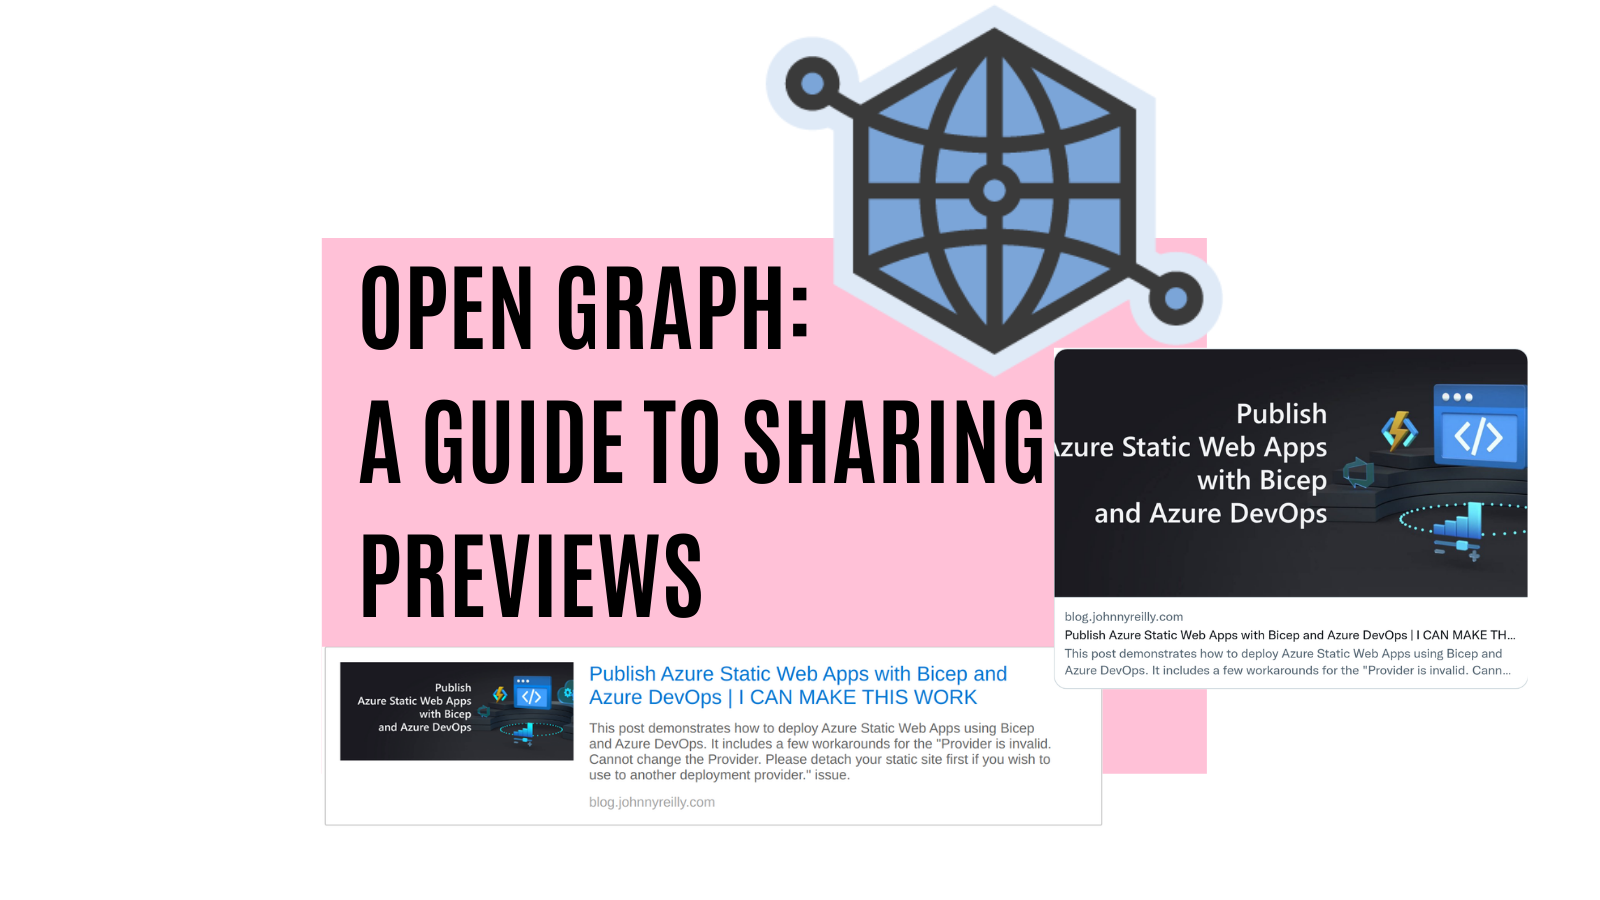
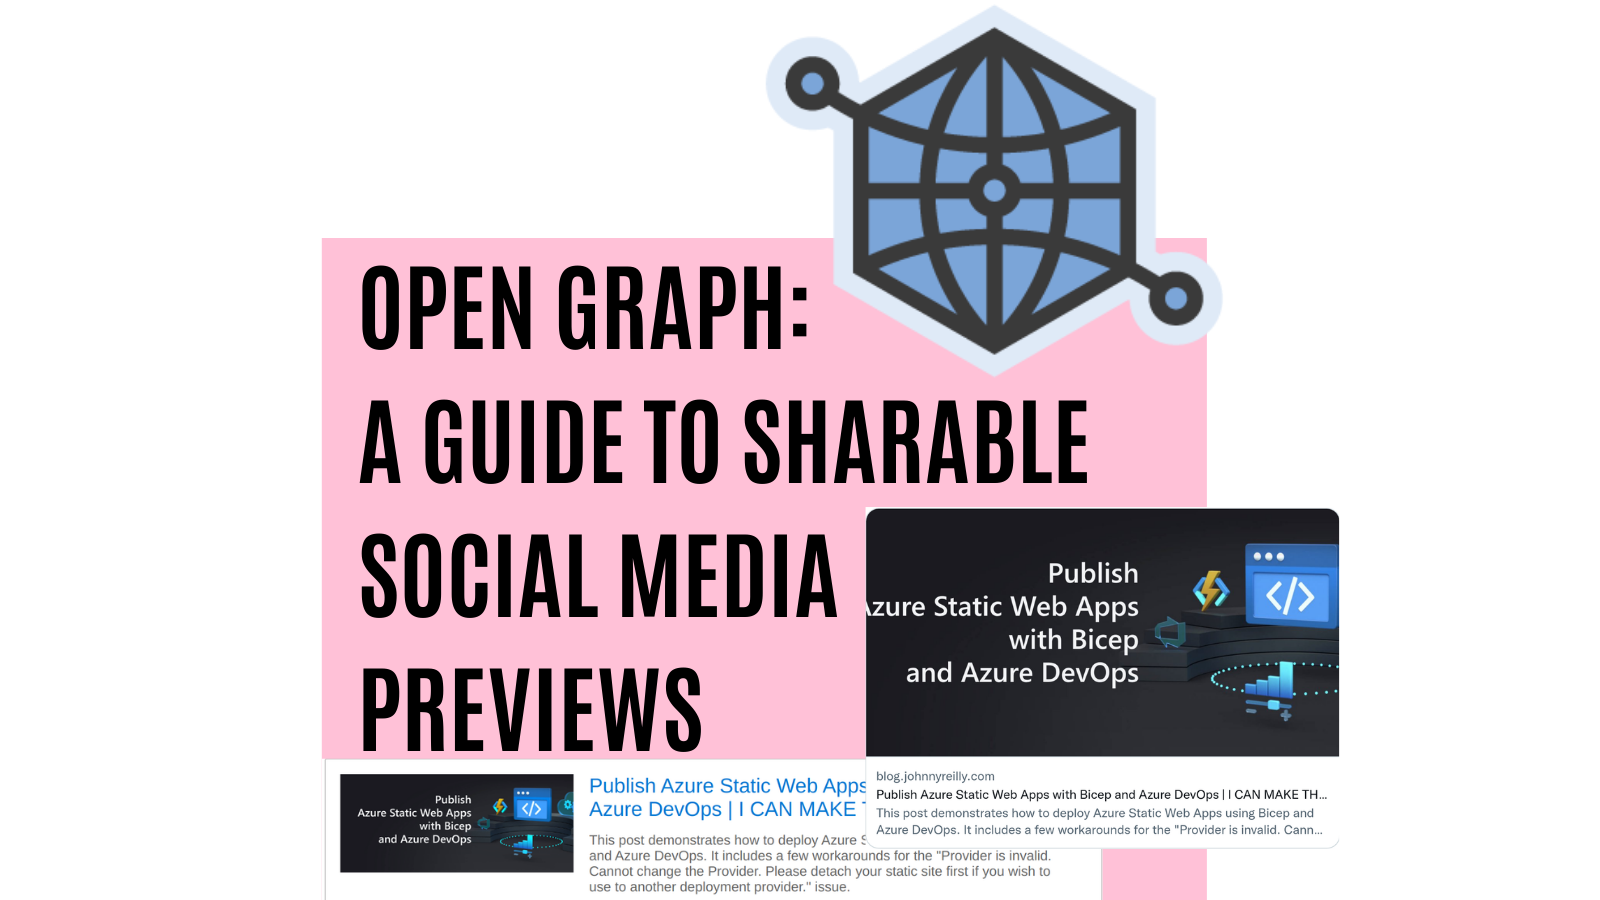
tweaks

Changed region(s): [[0.1875, 0.3733, 0.9688, 1.0]]

diff --git a/blog-website/blog/2021-11-07-open-graph-sharing-previews-guide.md b/blog-website/blog/2021-11-07-open-graph-sharing-previews-guide.md
@@ -8,7 +8,7 @@ hide_table_of_contents: false
 
 The Open Graph protocol has become the standard mechanism for sharing rich content on the web. This post looks at what implementing Open Graph tags for sharable previews (often called social media previews) looks like, the tools you can use and also an examines the different platform rendering issue.
 
-![title image reading "NSwag generated C# client: Open API property name clashes and decimal types rather than double" with a C# logo and Open API logos](../static/blog/2021-11-07-open-graph-sharing-previews-guide/title-image.png)
+![title image reading "Open Graph: a guide to sharable social media previews" with the open graph logo and screenshots of twitter shared cards](../static/blog/2021-11-07-open-graph-sharing-previews-guide/title-image.png)
 
 ## Open Graph protocol and sharing
 
@@ -156,4 +156,3 @@ So whilst the mechanism for sharing is roughly standardised, the rendering is no
 ## Conclusion
 
 In this post we've understood what sharable previews are, how to add them to a website, how to test them and some of the rough edges to be aware of.
-
